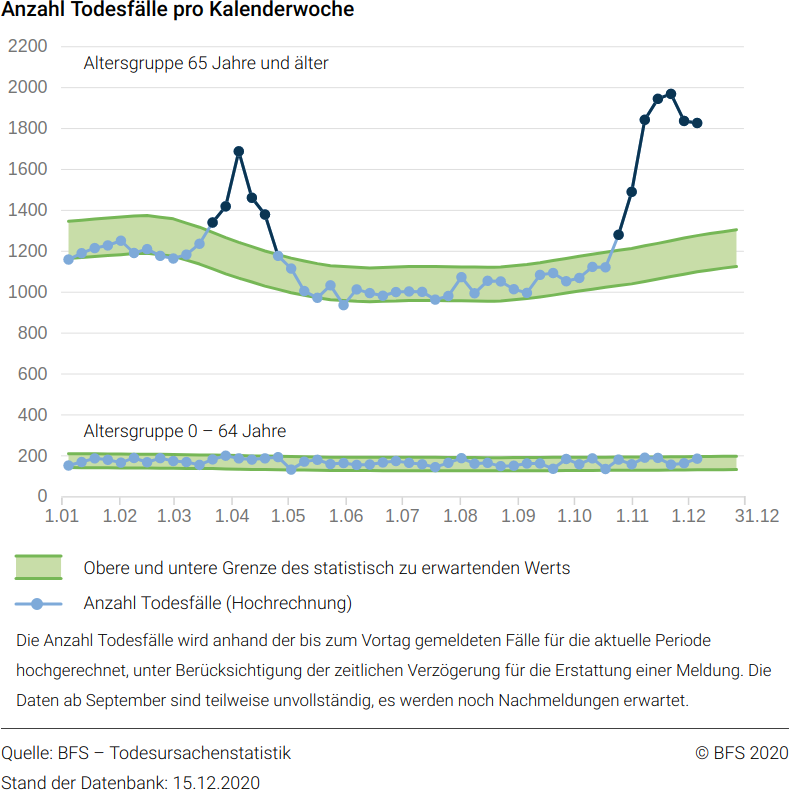
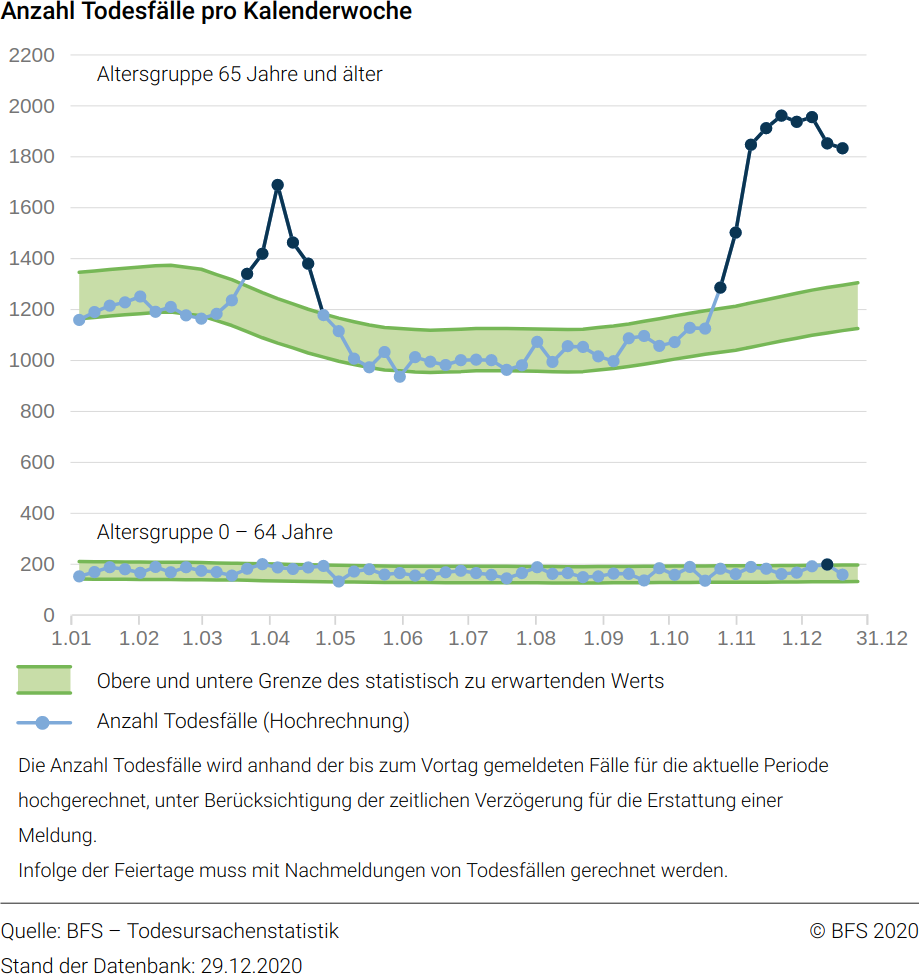
GitBook: [master] one page and one asset modified

diff --git a/die-details/covid-19-vs-grippe.md b/die-details/covid-19-vs-grippe.md
@@ -65,6 +65,8 @@ Die vergleichsweise hohe Zahl an Todesfällen im Frühjahr 2015 [schreibt das BF
 
 ![](../.gitbook/assets/2020.png)
 
+Man beachte, dass diese Grafik im Vergleich zu 2015 eine gedehnte Y-Achse hat, daher erscheint die Sterblichkeit von 2020 rein optisch viel höher als diejenige von 2015. [Zahlenmässig liegt die Sterblichkeit in 2020 gegenwärtig nur 5% über der von 2015](covid-19-vs-grippe.md#sterblichkeit-in-2020-nur-5-hoeher-als-in-2015).   
+
 ## Die Spitäler sind nicht überlastet
 
 Der ebenfalls oft gehörte Einwand, dass die Bettenkapazität in den Intensivstationen bald ausgeschöpft sei, hält einer genaueren Überprüfung auch nicht stand. Laut den [offiziellen Zahlen](https://www.covid19.admin.ch/de/hosp-capacity/icu?rel=rel) lag die landesweite Auslastung nie über 80%.
